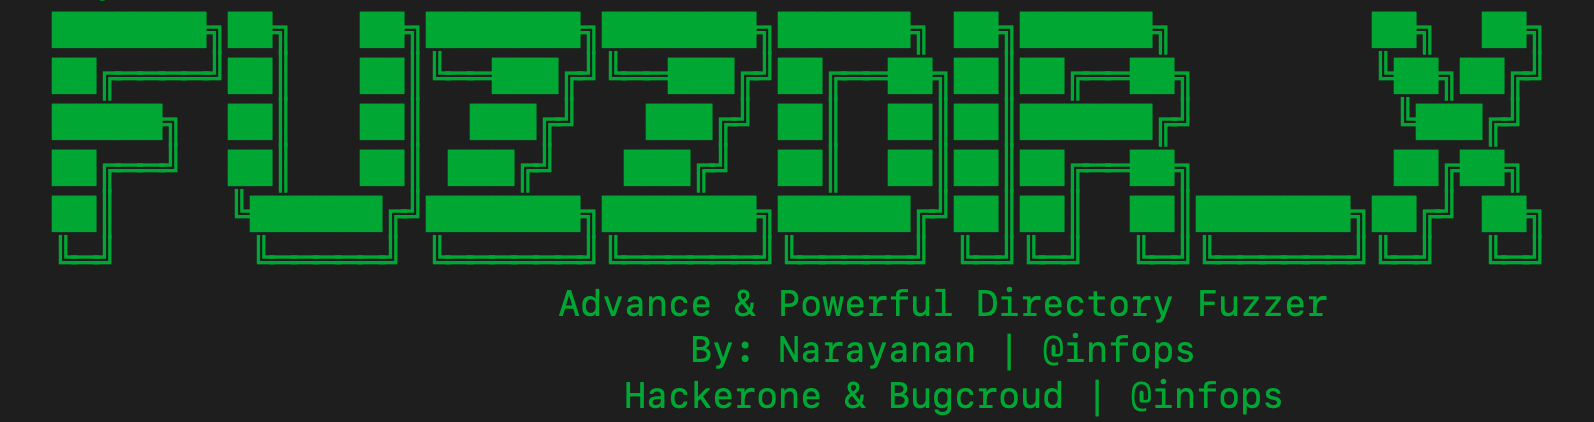
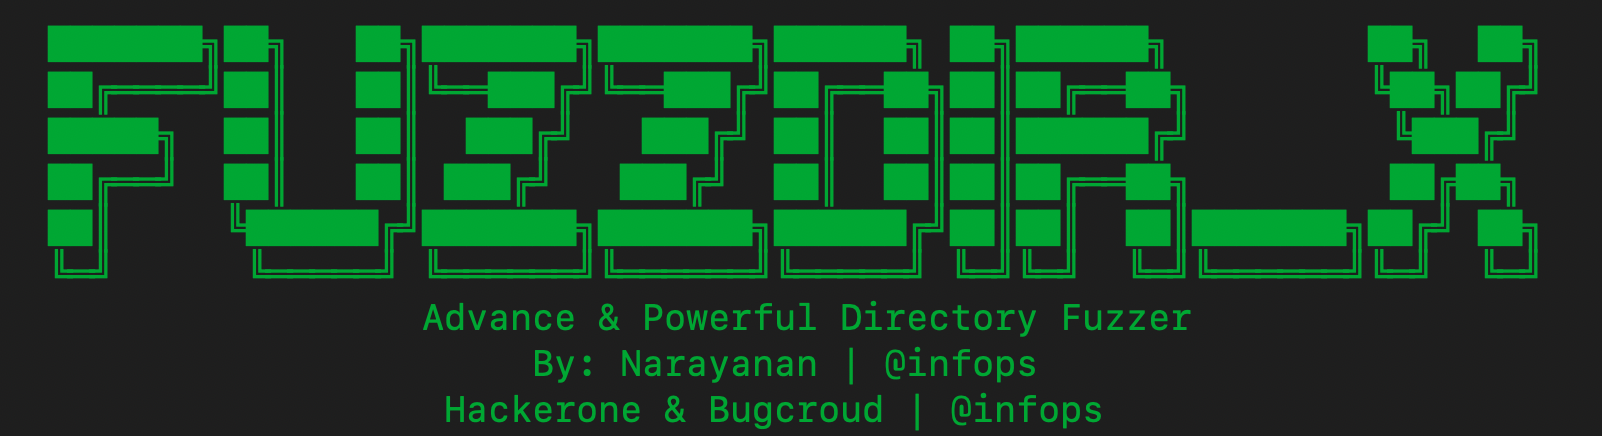
readme file update

Changed region(s): [[0.0307, 0.0, 0.9837, 0.6469], [0.2767, 0.8009, 0.7992, 0.9858], [0.2459, 0.6777, 0.83, 0.7701]]

diff --git a/FuzzdirX_dev.js b/FuzzdirX_dev.js
@@ -9,15 +9,16 @@ const options = {
 };
 
 function showBanner() {
+  console.log("                                                                               ");
   console.log("  ███████╗██╗   ██╗███████╗███████╗██████╗ ██╗██████╗         ██╗  ██╗         ");
   console.log("  ██╔════╝██║   ██║╚══███╔╝╚══███╔╝██╔══██╗██║██╔══██╗        ╚██╗██╔╝         ");
   console.log("  █████╗  ██║   ██║  ███╔╝   ███╔╝ ██║  ██║██║██████╔╝         ╚███╔╝          ");
   console.log("  ██╔══╝  ██║   ██║ ███╔╝   ███╔╝  ██║  ██║██║██╔══██╗         ██╔██╗          ");
   console.log("  ██║     ╚██████╔╝███████╗███████╗██████╔╝██║██║  ██║███████╗██╔╝ ██╗         ");
   console.log("  ╚═╝      ╚═════╝ ╚══════╝╚══════╝╚═════╝ ╚═╝╚═╝  ╚═╝╚══════╝╚═╝  ╚═╝         ");
-  console.log("	                 Advance & Powerful Directory Fuzzer                          ");
-  console.log("		               By: Narayanan | @infops                           ");
-  console.log("	                    Hackerone & Bugcroud | @infops                            ");
+  console.log("	           Advance & Powerful Directory Fuzzer                          ");
+  console.log("		        By: Narayanan | @infops                           ");
+  console.log("	            Hackerone & Bugcroud | @infops                            ");
   console.log("Usage: node fuzzdir.js -u <URL> -w <Wordlist>");
   console.log("  -u: Enter the URL");
   console.log("  -w: Enter the Wordlist");
